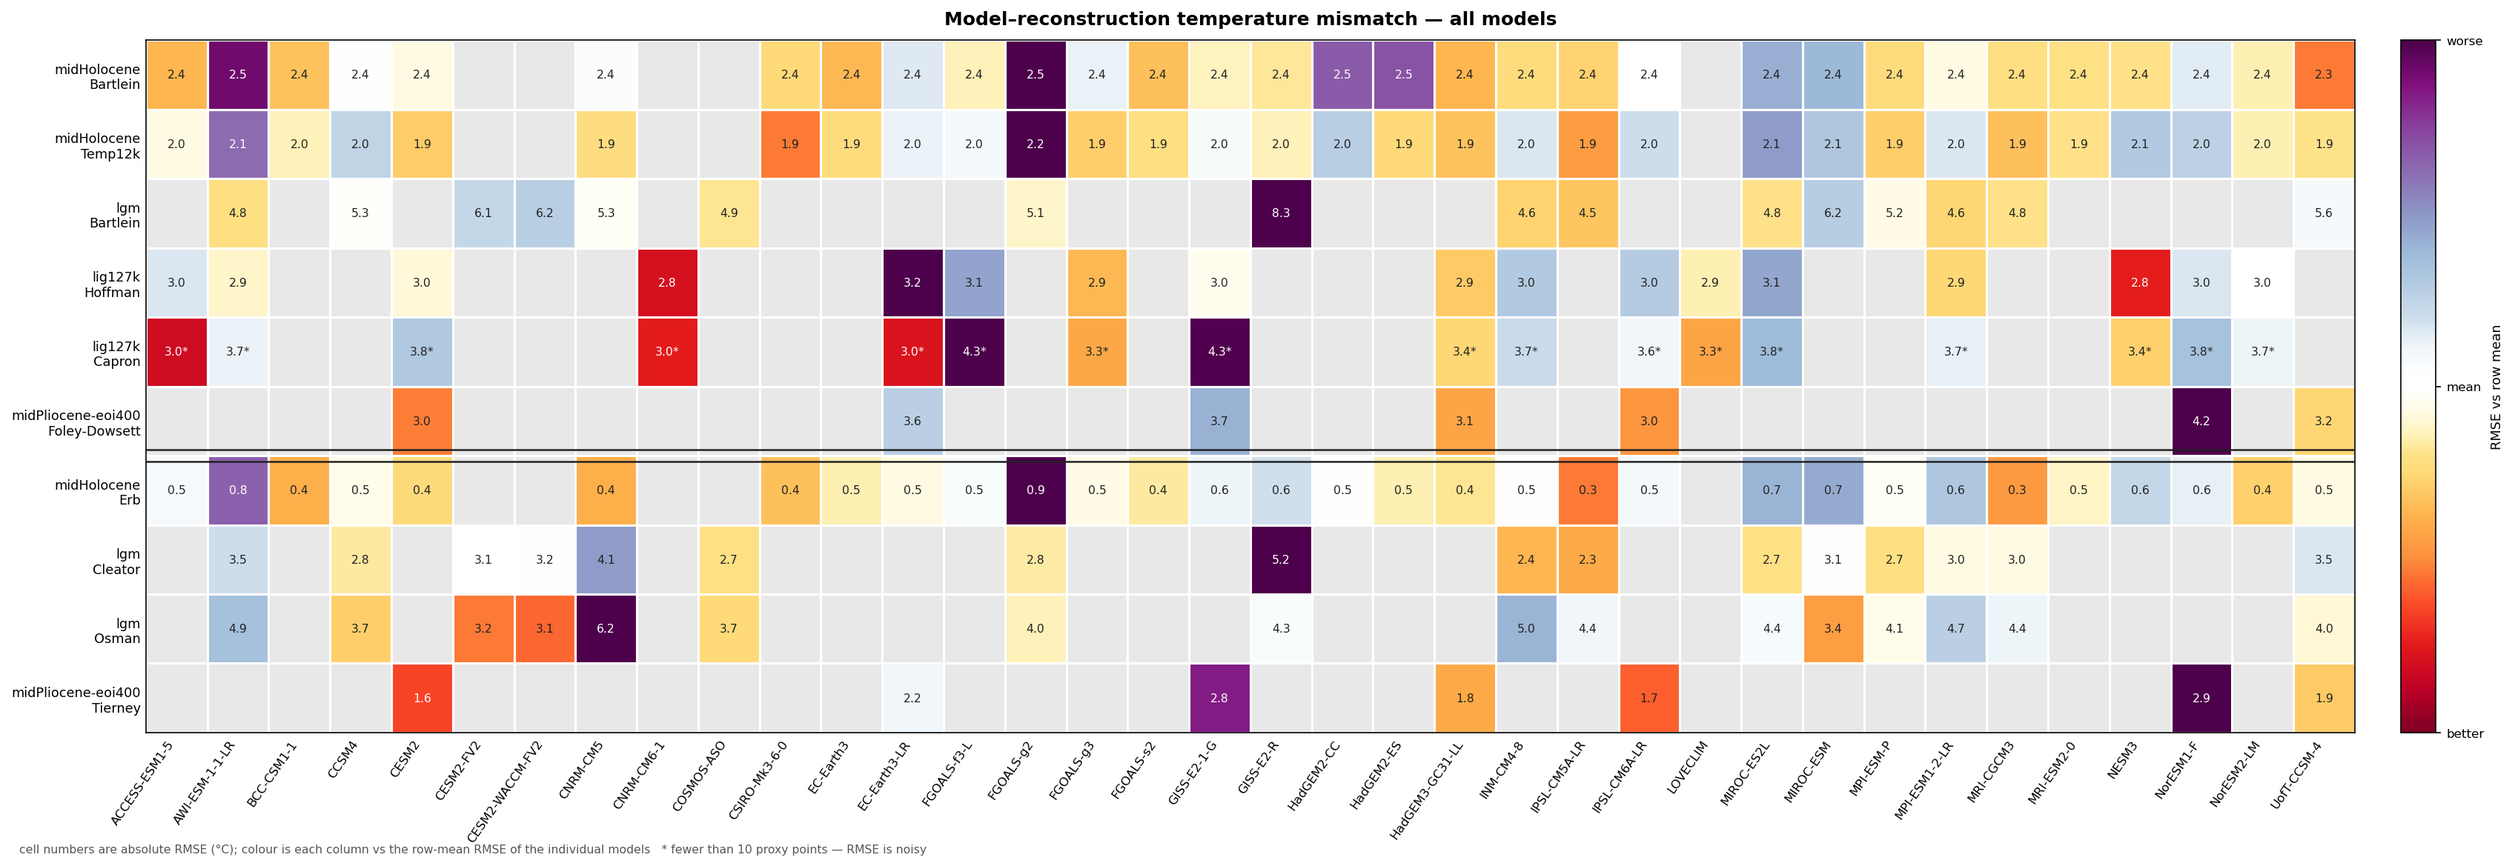
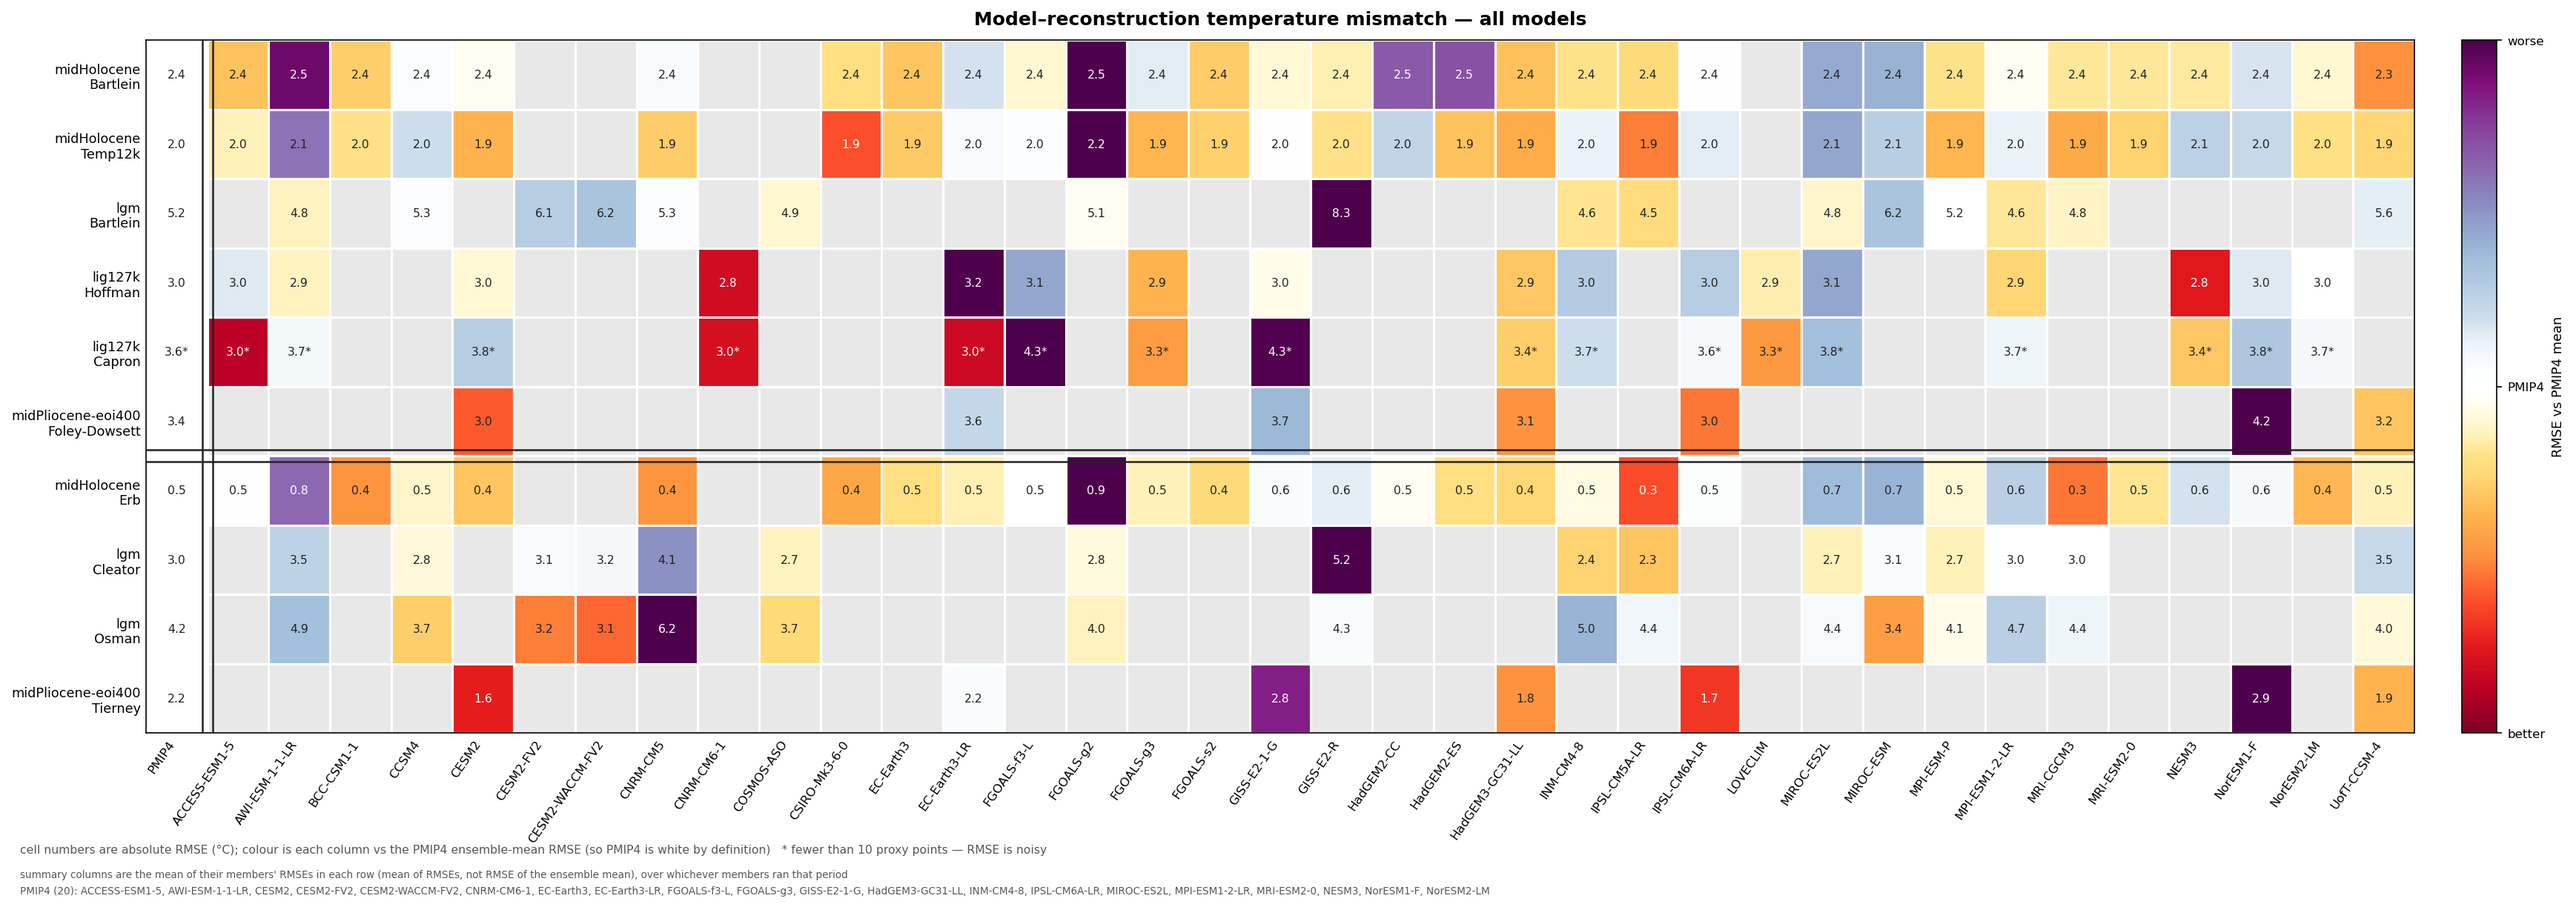
Give the all-models figure the PMIP4 column and PMIP4-centred colours
The white-centred palette was already shared by both figures, but the all-models
version had no PMIP4 column so it fell back to centring on the row mean. It now
carries PMIP4 as well, and is coloured on the same reference, which makes the
two figures directly comparable cell for cell.

PMIP3 is deliberately left off the all-models figure: all 15 of its members are
already drawn as their own columns there, so it would only restate them. Add
'PMIP3' to the labels argument if you want it.

add_group_means gains labels and keep_only arguments, separating which summary
columns to build from whether the individual columns are filtered to
KEEP_MODELS. Membership is still worked out from the full table, so PMIP4
averages the same 20 models in both figures. carpet_diagram.png is unchanged
(byte-identical output).

Claude-Session: https://claude.ai/code/session_015UoY4DGFBcKaf6j3EmSw4P

diff --git a/carpet_diagram/carpet_figure.py b/carpet_diagram/carpet_figure.py
@@ -98,8 +98,13 @@ def composite_membership(df):
     }
 
 
-def add_group_means(df):
-    """Keep KEEP_MODELS as columns and append the PMIP4 / PMIP3 mean columns.
+def add_group_means(df, labels=COMPOSITE_LABELS, keep_only=True):
+    """Append the requested ensemble-mean columns, optionally dropping old models.
+
+    `labels` selects which of COMPOSITE_LABELS to build; `keep_only` restricts the
+    individual columns to KEEP_MODELS (the reduced figure) rather than showing
+    every model (the all-models figure). Membership is always worked out from the
+    full table, so PMIP4 averages the same models either way.
 
     Each summary is the plain mean of its members' RMSE within a row — not the
     RMSE of their ensemble-mean anomaly field, which would be lower because model
@@ -107,8 +112,8 @@ def add_group_means(df):
     small-sample '*' flag still behaves.
     """
     members = composite_membership(df)
-    frames = [df[df.model.isin(KEEP_MODELS)].copy()]
-    for label in COMPOSITE_LABELS:
+    frames = [df[df.model.isin(KEEP_MODELS)].copy() if keep_only else df.copy()]
+    for label in labels:
         sub = df[df.model.isin(members[label])]
         if sub.empty:
             continue
@@ -117,7 +122,7 @@ def add_group_means(df):
                   .reset_index())
         agg['model'] = label
         frames.append(agg)
-    return pd.concat(frames, ignore_index=True), members
+    return pd.concat(frames, ignore_index=True), {k: members[k] for k in labels}
 
 
 def load_rmse_tables():
@@ -154,12 +159,11 @@ def order_rows(df):
     return row_keys, boundaries
 
 
-def make_figure(out_name='carpet_diagram.png', collapse=False, title=None):
+def make_figure(out_name='carpet_diagram.png', labels=COMPOSITE_LABELS,
+                keep_only=True, title=None):
     df = load_rmse_tables()
 
-    members = {}
-    if collapse:
-        df, members = add_group_means(df)
+    df, members = add_group_means(df, labels=labels, keep_only=keep_only)
     composites = [c for c in COMPOSITE_LABELS if c in set(df.model)]
 
     row_keys, boundaries = order_rows(df)
@@ -279,8 +283,11 @@ def make_figure(out_name='carpet_diagram.png', collapse=False, title=None):
 
 if __name__ == '__main__':
     # The headline figure is the reduced one: a column per CMIP6-era PMIP model
-    # (plus UofT-CCSM-4), with PMIP4 and PMIP3 ensemble-mean columns on the right.
-    make_figure(out_name='carpet_diagram.png', collapse=True)
-    # The every-model version is kept alongside it.
+    # (plus UofT-CCSM-4), with PMIP4 and PMIP3 ensemble-mean columns on the left.
+    make_figure(out_name='carpet_diagram.png')
+    # The every-model version keeps the PMIP4 reference column so its colours are
+    # centred the same way; PMIP3 is left off because all of its members are
+    # already shown as their own columns. Add 'PMIP3' to labels if you want it.
     make_figure(out_name='carpet_diagram_all_models.png',
+                labels=['PMIP4'], keep_only=False,
                 title='Model–reconstruction temperature mismatch — all models')

diff --git a/CLAUDE.md b/CLAUDE.md
@@ -85,7 +85,7 @@ The notebooks read their working directory via `os.getcwd()`, so run them from `
 3. Bilinearly sample each model's anomaly field at every proxy location — model lon is 0–360°, proxy lon −180–180°, so targets are wrapped and the field is made cyclic in longitude first. A `weight` column is carried through (defaults to 1.0 when Step 1 omits it).
 4. Compute per-model weight-weighted RMSE (and bias) against each compilation. Scattered-site compilations use unit weights, so that reduces to the ordinary RMSE; the gridded near-global products (Cleator, Osman, Erb, Tierney) use `cos(latitude)` weights so their RMSE is area-fair rather than pole-heavy. Weights are set per compilation in Step 1, so a period can mix the two (midHolocene and midPliocene now do).
 
-Outputs land in `carpet_diagram/output/`, one set per period: `recon_points_<period>.csv`, `model_anom_at_recon_<period>.csv`, `rmse_long_<period>.csv`, `rmse_summary_<period>.csv`. `carpet_figure.py` auto-discovers every `rmse_long_*.csv` and renders all periods/compilations as rows. Row order is set explicitly by `ROW_GROUPS`, a list of groups of `(period, compilation)` keys drawn in order and separated in the figure by a **double rule**: group 1 is the proxy compilations (midHolocene Bartlein/Temp12k, lgm Bartlein, lig127k Hoffman/Capron, midPliocene Foley-Dowsett), group 2 the data assimilation products (midHolocene Erb, lgm Cleator, lgm Osman, midPliocene Tierney). Any `(period, compilation)` present in the data but absent from `ROW_GROUPS` is appended as a further group and logged, never silently dropped — so adding a period still needs no edit here, but placing its row where you want it does. Running `carpet_figure.py` writes **two** figures. The headline one is `carpet_diagram.png`, the reduced version: a column per CMIP6-era PMIP model (the 22 in `CMIP6_PMIP_MODELS`, transcribed from the PMIP data-holdings table at pcmdi.llnl.gov — `EC-Earth3-Veg`/`EC-Earth3-Veg-LR` are listed there but have no CVDP output) plus `UofT-CCSM-4`, giving 21 columns. `carpet_diagram_all_models.png` is the every-model version (36 columns). Two **ensemble-mean summary columns** are pinned to the right of the reduced figure behind a vertical double rule, in `COMPOSITE_LABELS` order: **PMIP4** (the 20 CMIP6 archive models) and **PMIP3** (the 15 pre-CMIP6 ones). `UofT-CCSM-4` keeps its own column and is deliberately *not* folded into PMIP4, since it is not in the CMIP6 holdings — change the membership test in `composite_membership` to include it. Each summary is the plain **mean of its members' RMSEs** within a row, *not* the RMSE of their ensemble-mean anomaly field (which would be lower, because model errors partly cancel, and would need the notebooks re-run rather than just this script). Membership varies by row — no pre-CMIP6 model ran midPliocene, so PMIP3 is blank on those two rows. Both summary columns sit at the **left-hand edge** in `COMPOSITE_LABELS` order, ahead of the individual models, which are listed **alphabetically** rather than ranked. Colour is **normalised per row against the PMIP4 ensemble mean**: each cell is its signed deviation from that row's PMIP4 value, scaled by the row's largest absolute deviation, on a diverging map — better than PMIP4 (lower RMSE) is warm yellow/red, worse is cool blue/purple, and **PMIP4 is white by definition**. `better_worse_cmap` fades the inner end of each ramp to pure white so the centre is actually white rather than the pale-yellow/pale-blue seam where YlOrRd and BuPu would otherwise meet. The scale spans every column, summaries included, so nothing clips when PMIP3 is a row's most extreme value. `carpet_diagram_all_models.png` has no PMIP4 column and falls back to centring on the row mean (colourbar and footnote relabel themselves). This keeps model ranking legible despite very different absolute RMSE between periods; the printed cell numbers remain absolute RMSE in °C.
+Outputs land in `carpet_diagram/output/`, one set per period: `recon_points_<period>.csv`, `model_anom_at_recon_<period>.csv`, `rmse_long_<period>.csv`, `rmse_summary_<period>.csv`. `carpet_figure.py` auto-discovers every `rmse_long_*.csv` and renders all periods/compilations as rows. Row order is set explicitly by `ROW_GROUPS`, a list of groups of `(period, compilation)` keys drawn in order and separated in the figure by a **double rule**: group 1 is the proxy compilations (midHolocene Bartlein/Temp12k, lgm Bartlein, lig127k Hoffman/Capron, midPliocene Foley-Dowsett), group 2 the data assimilation products (midHolocene Erb, lgm Cleator, lgm Osman, midPliocene Tierney). Any `(period, compilation)` present in the data but absent from `ROW_GROUPS` is appended as a further group and logged, never silently dropped — so adding a period still needs no edit here, but placing its row where you want it does. Running `carpet_figure.py` writes **two** figures. The headline one is `carpet_diagram.png`, the reduced version: a column per CMIP6-era PMIP model (the 22 in `CMIP6_PMIP_MODELS`, transcribed from the PMIP data-holdings table at pcmdi.llnl.gov — `EC-Earth3-Veg`/`EC-Earth3-Veg-LR` are listed there but have no CVDP output) plus `UofT-CCSM-4`, giving 21 columns. `carpet_diagram_all_models.png` is the every-model version (36 columns), which also carries the PMIP4 column so its colours are centred the same way; PMIP3 is left off there because all 15 of its members already appear as their own columns. Which summaries a figure gets is the `labels` argument to `make_figure`, and `keep_only` controls whether the individual columns are restricted to `KEEP_MODELS`. Two **ensemble-mean summary columns** are pinned to the right of the reduced figure behind a vertical double rule, in `COMPOSITE_LABELS` order: **PMIP4** (the 20 CMIP6 archive models) and **PMIP3** (the 15 pre-CMIP6 ones). `UofT-CCSM-4` keeps its own column and is deliberately *not* folded into PMIP4, since it is not in the CMIP6 holdings — change the membership test in `composite_membership` to include it. Each summary is the plain **mean of its members' RMSEs** within a row, *not* the RMSE of their ensemble-mean anomaly field (which would be lower, because model errors partly cancel, and would need the notebooks re-run rather than just this script). Membership varies by row — no pre-CMIP6 model ran midPliocene, so PMIP3 is blank on those two rows. Both summary columns sit at the **left-hand edge** in `COMPOSITE_LABELS` order, ahead of the individual models, which are listed **alphabetically** rather than ranked. Colour is **normalised per row against the PMIP4 ensemble mean**: each cell is its signed deviation from that row's PMIP4 value, scaled by the row's largest absolute deviation, on a diverging map — better than PMIP4 (lower RMSE) is warm yellow/red, worse is cool blue/purple, and **PMIP4 is white by definition**. `better_worse_cmap` fades the inner end of each ramp to pure white so the centre is actually white rather than the pale-yellow/pale-blue seam where YlOrRd and BuPu would otherwise meet. The scale spans every column, summaries included, so nothing clips when PMIP3 is a row's most extreme value. Both figures now carry PMIP4, so both are centred on it; the row-mean fallback (with colourbar and footnote relabelling themselves) only kicks in if `make_figure` is called with no PMIP4 column. This keeps model ranking legible despite very different absolute RMSE between periods; the printed cell numbers remain absolute RMSE in °C.
 
 ## Outstanding — CSIRO-Mk3L-1-2 piControl not yet restored (as of 7 Aug 2026)
 
